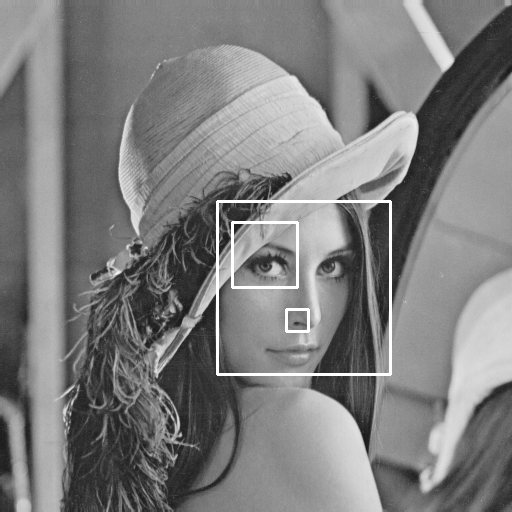
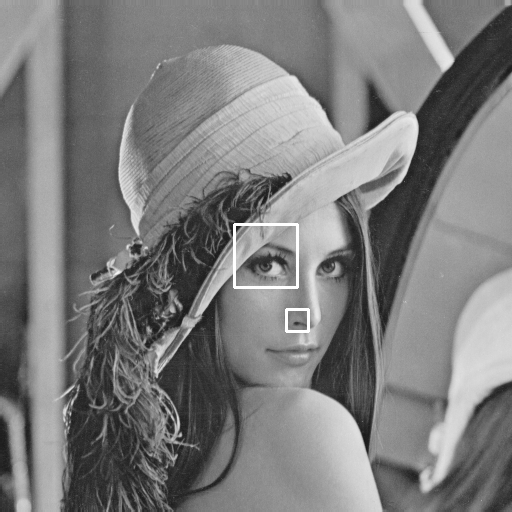
順番変えたけど鼻の穴の認識は変わらず　動く

Changed region(s): [[0.4062, 0.375, 0.7812, 0.75]]

diff --git a/compressor.py b/compressor.py
@@ -8,11 +8,8 @@ import cv2
 # import random
 
 class compressor:
-    # xml_face = "/usr/local/lib/python3.7/site-packages/cv2/data/haarcascade_frontalface_default.xml"
-    # xml_lefteye = "/usr/local/lib/python3.7/site-packages/cv2/data/haarcascade_lefteye_2splits.xml"
     def parts_recognize(self):
         print("parts_recognize() start")
-        # xml_righteye = "/usr/local/lib/python3.7/site-packages/cv2/data/haarcascade_righteye_2splits.xml"
 
         law_path = "./images/lenna.png"
         img_origin = cv2.imread(law_path)
@@ -22,29 +19,28 @@ class compressor:
         
         # 輪郭
         face = face_reco(img_gray)
-        targets = face.reco()
-        for x, y, w, h in targets:
-            cv2.rectangle(img_gray, (x, y), (x + w, y + h), (255, 0, 0), 2)
+        face_targets = face.reco()
 
         # 左目
         lefteye = lefteye_reco(img_gray)
-        targets = lefteye.reco()
-        for x, y, w, h in targets:
-            cv2.rectangle(img_gray, (x, y), (x + w, y + h), (255, 0, 0), 2)
+        lefteye_targets = lefteye.reco()
 
         # # 右目
         righteye = righteye_reco(img_gray)
-        targets = righteye.reco()
-        for x, y, w, h in targets:
+        righteye_targets = righteye.reco()
+
+        self.print_rect_at_image(img_gray, face_targets)
+        self.print_rect_at_image(img_gray, lefteye_targets)
+        self.print_rect_at_image(img_gray, righteye_targets)
+
+        self.img_write(output_img_path, img_gray)
+
+    def print_rect_at_image(self, img_gray, rect):
+        for x, y, w, h in rect:
             cv2.rectangle(img_gray, (x, y), (x + w, y + h), (255, 0, 0), 2)
 
-        # classifier = cv2.CascadeClassifier(XML_PATH_RIGHTEYE)
-        # targets = classifier.detectMultiScale(img_gray)
-        # for x, y, w, h in targets:
-        #     cv2.rectangle(img_gray, (x, y), (x + w, y + h), (255, 0, 0), 2)
-        
-        cv2.imwrite(output_img_path, img_gray)
-
+    def img_write(self, filename, img):
+        cv2.imwrite(filename, img)
 
 class square_reco:
     img_gray = ""
